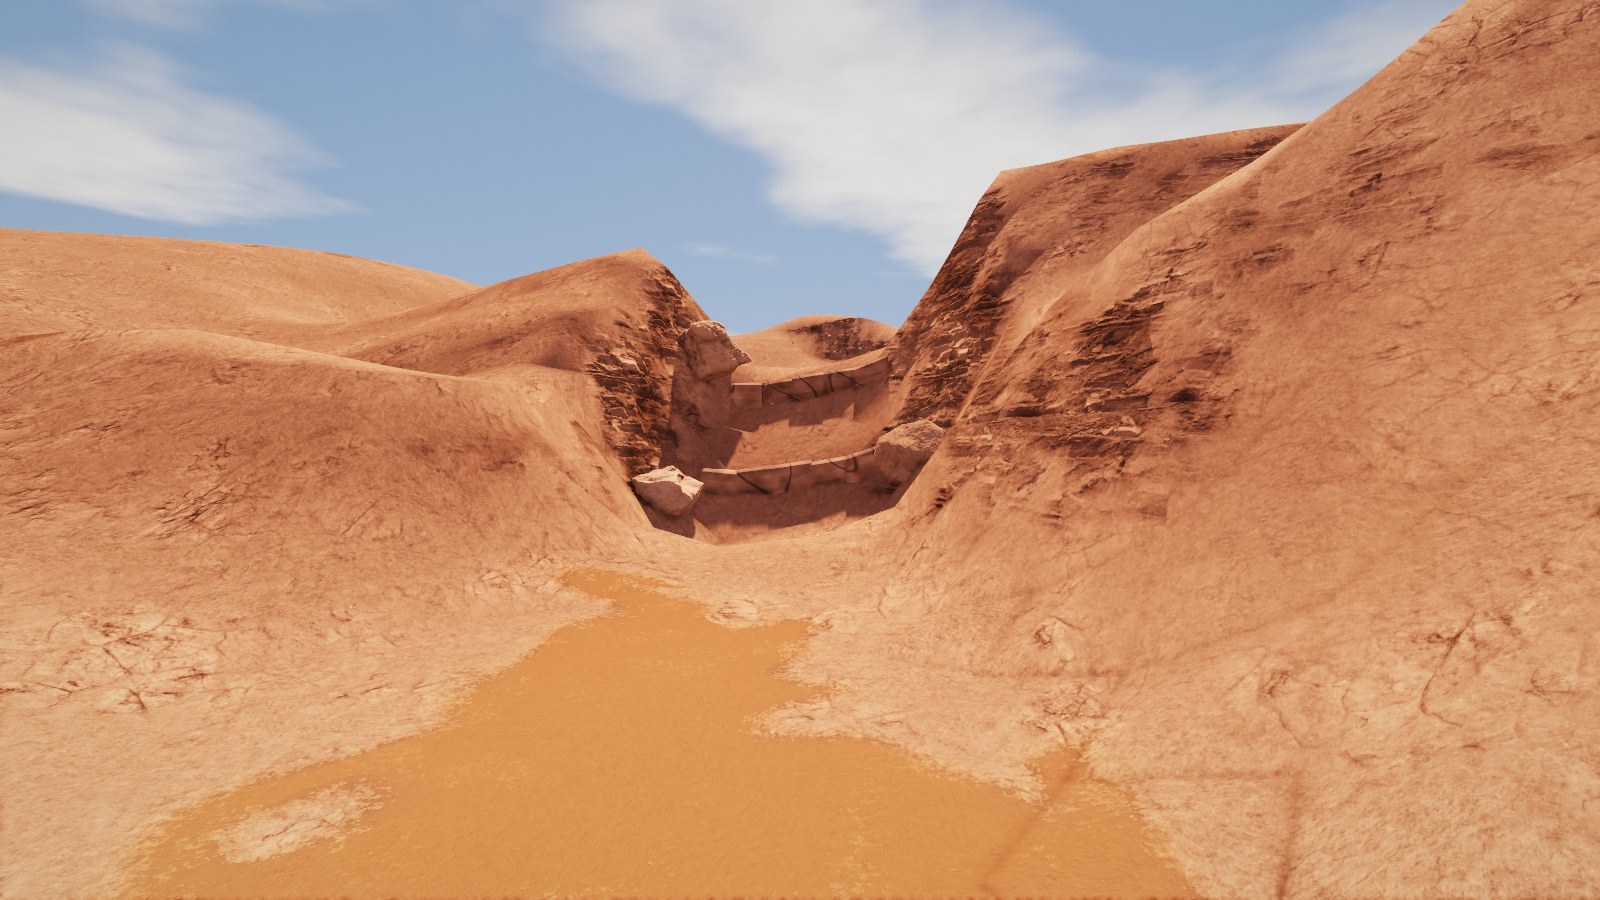
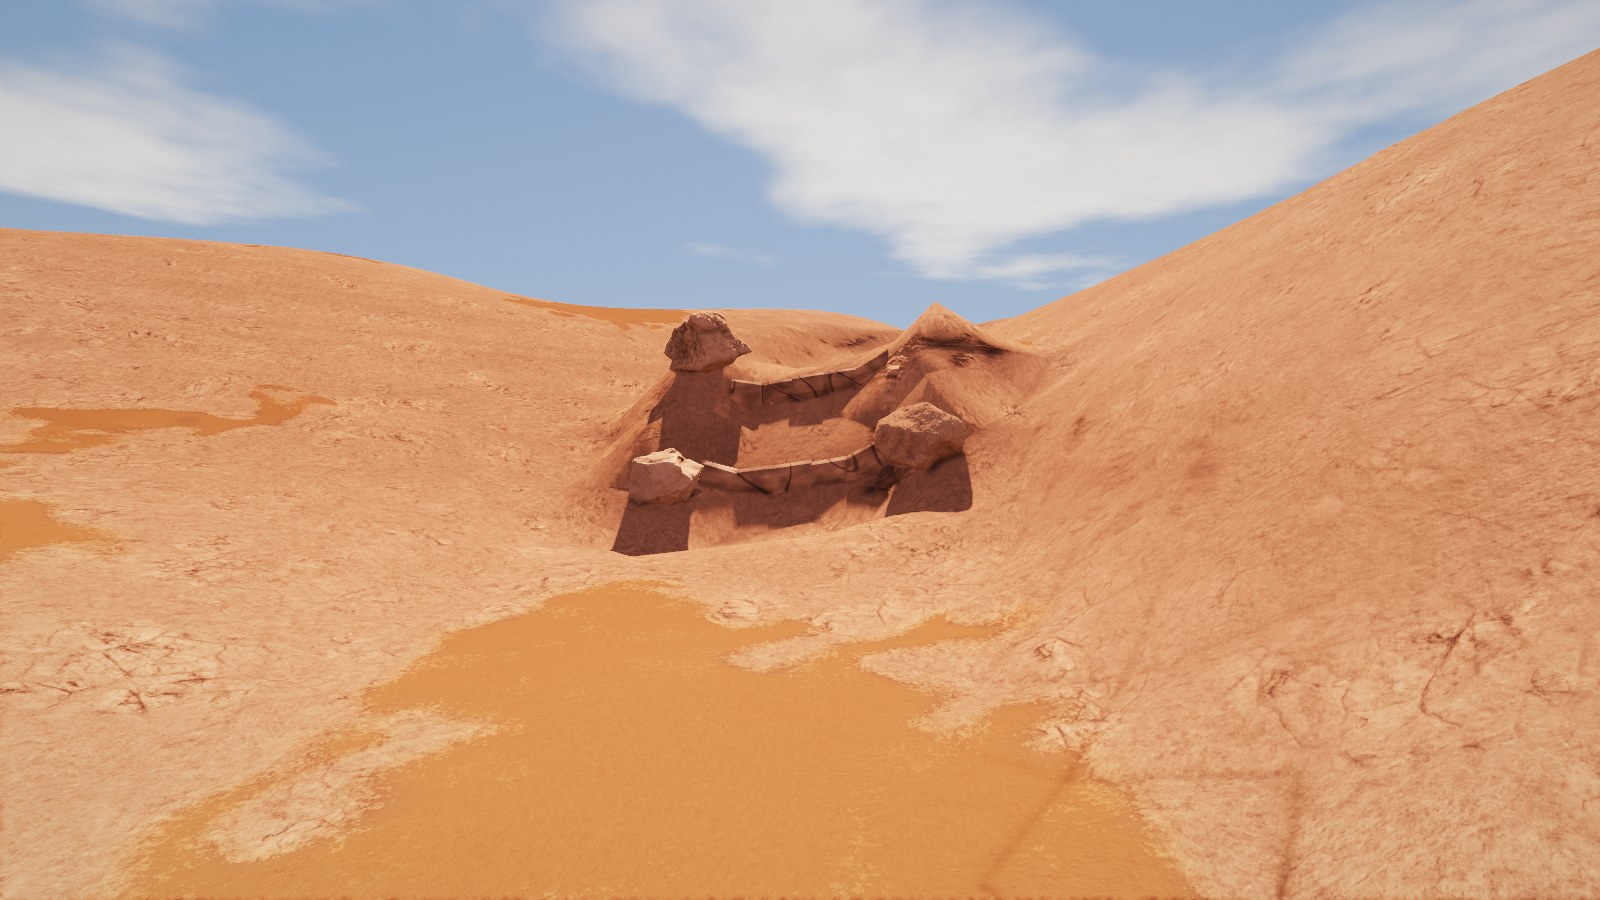
Moab review: after shots on the full lidar, verdicts; docs for obstacles on lidar and the memory

Changed region(s): [[0.0, 0.0, 1.0, 0.9022], [0.125, 0.9022, 0.1562, 0.9333]]

diff --git a/docs/review/moab/slickrock-review.md b/docs/review/moab/slickrock-review.md
@@ -6,11 +6,14 @@ from wip/moab-trails (9e420ec) with its own map files, "after" from this branch.
 | Pair | Camera | Compared against | Verdict |
 |---|---|---|---|
 | 50 Hell's Revenge domes, wide | 4900,300,45,-42,-6 | NAIP 2024 0.6 m over the fins (data/real/moab/source/hires/naip2024, block e627600 n4270800); traildamage.com Hell's Revenge photo [derek_up_a_steep_hill](https://traildamage.com/wp-content/uploads/trails/hells_revenge/031024/derek_up_a_steep_hill.jpg) | Better, not there. The fins on the skyline now have the lidar's real shape and read as banded rock, and the foreground is bare pinkish rock with orange sand in the hollows instead of an orange dune field with pale blotches. Still wrong: the near ground is too flat and smooth (it is the 10 m DEM outside the lidar box; the real Sand Flats are knobbly domes), far too little brush, the trees are green cones, and sand patches have hard painted edges. |
-| 51 Hell's Gate | 4264.7,4034.7,4,41.2,0.6 | [hells_gate.jpg](https://traildamage.com/wp-content/uploads/trails/hells_revenge/060324/hells_gate.jpg), [mike_up_hells_gate_part_1](https://traildamage.com/wp-content/uploads/trails/hells_revenge/060324/mike_up_hells_gate_part_1.jpg) | Much better: a notch between two tall rock walls with beds and varnish, ledge faces in the same rock, no granite. Not the real thing: the real walls are smooth, rounded and cross-bedded and curve up 10 m and more; these are crested ridges with a blocky cliff texture, and the lidar doesn't reach it (a gap in the tiles on disk), so the shape is authored, not measured. The sand puddle in front reads as paint. |
-| 52 Escalator | 3896.7,2281.2,4,116.4,-1.5 | [escalator.jpg](https://traildamage.com/wp-content/uploads/trails/hells_revenge/030510/escalator.jpg), [kendall_and_escalator_part_2](https://traildamage.com/wp-content/uploads/trails/hells_revenge/030510/kendall_and_escalator_part_2.jpg) | Mixed. Colour and material are right, the boulder rows are gone. The shape is wrong: the real Escalator is a smooth steep chute between two big rounded domes; here the 3.5 m walls make a sharp fin on one side and the ledges read as a stair of blocks. Also in a lidar gap. |
-| 53 The Staircase | 4291.3,1838.6,4,59.3,11.6 | no photo of the Staircase itself found; the Hell's Revenge slickrock photo above for colour and texture | Better colour and material, still a staircase sitting on a dome: four even slabs, ends squared off where the step dies, a little too dark. On lidar (the dome under it is real) but the dome is smooth at 1 m. |
+| 51 Hell's Gate | 4264.7,4034.7,4,41.2,0.6 | [hells_gate.jpg](https://traildamage.com/wp-content/uploads/trails/hells_revenge/060324/hells_gate.jpg), [mike_up_hells_gate_part_1](https://traildamage.com/wp-content/uploads/trails/hells_revenge/060324/mike_up_hells_gate_part_1.jpg) | Better than before, but less dramatic than the photos. Now on lidar (FlamingGorge 2020): the land is the survey's, a trough at the foot of a big dome's steep side, smooth and rounded, the right colour; the ledge faces are slabs, no granite. The photos' deep V with walls over head height on both sides doesn't come through: the left side is low, and the trail's 6 m-wide cut and the obstacle's 5 m blend smooth the narrow bottom of the slot. Two slab steps stand out as a block. |
+| 52 Escalator | 3896.7,2281.2,4,116.4,-1.5 | [escalator.jpg](https://traildamage.com/wp-content/uploads/trails/hells_revenge/030510/escalator.jpg), [kendall_and_escalator_part_2](https://traildamage.com/wp-content/uploads/trails/hells_revenge/030510/kendall_and_escalator_part_2.jpg) | Better than the authored fin, still not the photo. On lidar the climb is up the real saddle between two domes, smooth and rounded; but from this camera it reads as one dome with a three-step stair of slabs across its face, where the photos show a smooth steep chute with the steps barely visible. The slabs are too prominent. |
+| 53 The Staircase | 4291.3,1838.6,4,59.3,11.6 | no photo of the Staircase itself found; the Hell's Revenge slickrock photo above for colour and texture | Better colour and material, still a staircase sitting on a dome: four even slabs cut into the dome's own slope now, ends squared off where the step dies, a little too dark. The dome is the survey's and smooth at 1 m. |
 | 54 The Waterfall (Gold Bar Rim) | -5988.3,4164.5,3,116.9,-24.7 | [roger_up_a_ledge](https://traildamage.com/wp-content/uploads/trails/gold_bar_rim/060323/roger_up_a_ledge.jpg) (a Gold Bar Rim ledge, not the Waterfall) | Better colour, still weak. The ledges are now low pale slabs instead of grey boulders, on lidar, but at this angle they read as a scuffed stripe; the real rim has thick ledges with dark undercuts and red dirt between. The dirt track beside it is a dark brown strip. |
 | 55 Golden Spike (Double Whammy) | -5005.7,4671.7,3,-22.3,2.4 | [aaron_on_the_golden_stairs](https://traildamage.com/wp-content/uploads/trails/golden_spike/040515/aaron_on_the_golden_stairs.jpg) | Colour close to the pale cream rock of the photo; the ledges are slabs now, not grey stones. Too flat and too clean: the real thing is thick tabular slabs with rounded edges and shadowed undercuts, stacked; here two thin slab lines on a smooth slope. |
+
+The after shots were retaken after the three missing FlamingGorge 1 m tiles were fetched: every named obstacle is now on lidar,
+and on lidar an obstacle's walls, fins, pitch and tilt are the survey's (only the ledges' faces are authored slabs).
 
 Overall: the "stupid looking rocks" (grey and green granite rows on orange humps) are gone everywhere, and the ground reads as
 sandstone, not sand dunes. It does not yet look like real Moab: the ledges are small and regular where the real ones are big,

diff --git a/docs/real-terrain.md b/docs/real-terrain.md
@@ -223,12 +223,14 @@ wins). The game (`Terrain::patchAt`) lays them over the DEM bicubically, eased i
 NoData: integers, the same everywhere), without the made-up fine bumps (`landAt`); the contour ledges skip them, and `ledge_sharpen`
 pulls their risers toward a stair where a step is much steeper than the ground round it. The patches are hashed into `Spec::hash`.
 
-Moab: 21 patches, 9 M cells, 12.8 MB (`assets/maps/moab/detail/`), from `UT_Southern_QL1_2018` (x62y427, x62y428, x63y427) first, then
-`UT_FEMA_FS_FlamingGorge_2020_B20` (x61y427, x61y428, x63y428) and `UT_COUTAML_D24`. Hell's Gate, the Escalator, Mickey's Hot Tub, the
-east end of Golden Spike (Launching Pad, Narrow Ravine, Zuki Hill), Devil's Crack, the Moab Rim dome and the Poison Spider Waterfall
-fall in gaps of the tiles on disk (the 2018 survey's edge runs diagonally through Hell's Revenge; FlamingGorge's x62y427, x62y428 and
-x63y427 weren't fetched): they keep the 10 m DEM. The UGRC 2025 0.5 m DEM (Hell's Revenge core) states no licence, so nothing from it
-ships.
+Moab: 28 patches, 25 M cells, 25.4 MB (`assets/maps/moab/detail/`), from `UT_FEMA_FS_FlamingGorge_2020_B20` (x61..x63, y427..y428:
+one survey over all of box D, so no seam where another begins) first, then `UT_Southern_QL1_2018` and `UT_COUTAML_D24` where it has
+no data, over the trails, the obstacles and Hell's Revenge (38.560-38.600 N, 109.540-109.500 W). Every named obstacle is on it.
+The UGRC 2025 0.5 m DEM (Hell's Revenge core) states no licence, so nothing from it ships.
+
+**Obstacles on lidar.** Where a patch has its full weight over an obstacle's whole stretch, the land is taken to have the obstacle's
+real form: its authored walls, fins, pitch and camber are dropped, and only the ledges are added, cut into the land's own slope (up
+or down) with their faces as slabs; a crack or a pothole is still authored (the survey smooths them).
 
 ### Ground cover and the slickrock look
 `tools/naip_cover.py` classifies NAIP 2024 (USDA, 0.6 m, public domain) by colour: pale, low-saturation pixels are bare rock, the
@@ -257,9 +259,8 @@ osm.txt 0.3 MB). The tests are `tests/moab.cpp`. Credits: `assets/maps/moab/CRED
 **Memory** (Moab, box D, measured): the game peaks at 3.3 GB (4.7 GB before its scattered scanned rocks were made whole hulls:
 20 k rocks cut into convex pieces were 1.5 GB); the tool and the tests (code-made rocks) at 2.4 GB, so the tests build one Moab at a
 time. The 1 m grid is 1.6 GB of it (heights 4 bytes, surface and paint 1 each, 272 M cells): the ledge pass no longer copies it whole.
-With the lidar patches (9 M cells, kept as floats with their weights: about 70 MB) and the ground cover (68 MB of classes), the game's
-peak resident size measured offscreen at 1600x900 (VmHWM) is 3.44-3.45 GB from the world cache and 3.48 GB building the map fresh,
-against 3.42-3.44 GB on the same runs before them.
+With the lidar patches (25 M cells, kept as floats with their weights: about 200 MB) and the ground cover (68 MB of classes), the
+game's peak resident size measured offscreen at 1600x900 (VmHWM) is 3.49-3.52 GB, against 3.42-3.44 GB on the same runs before them.
 
 ## Determinism, the cache and multiplayer
 
